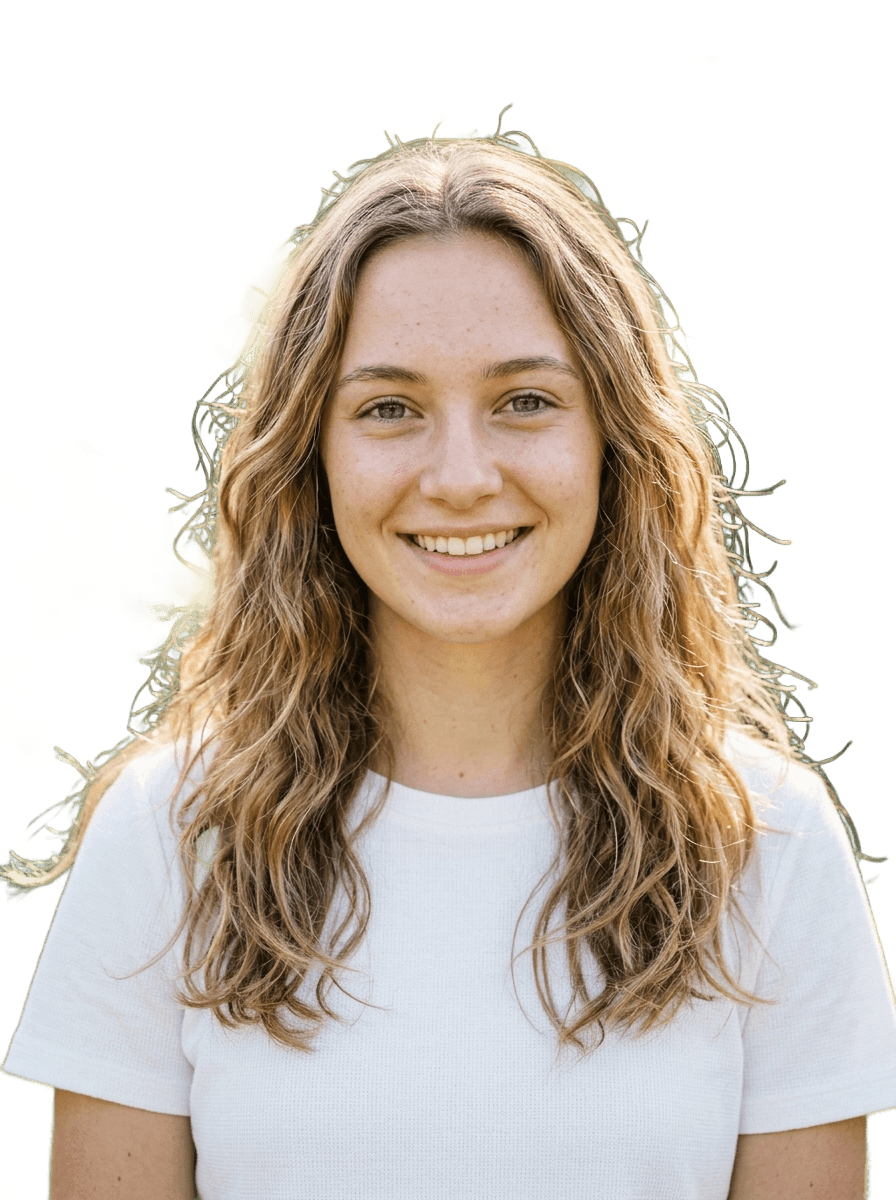
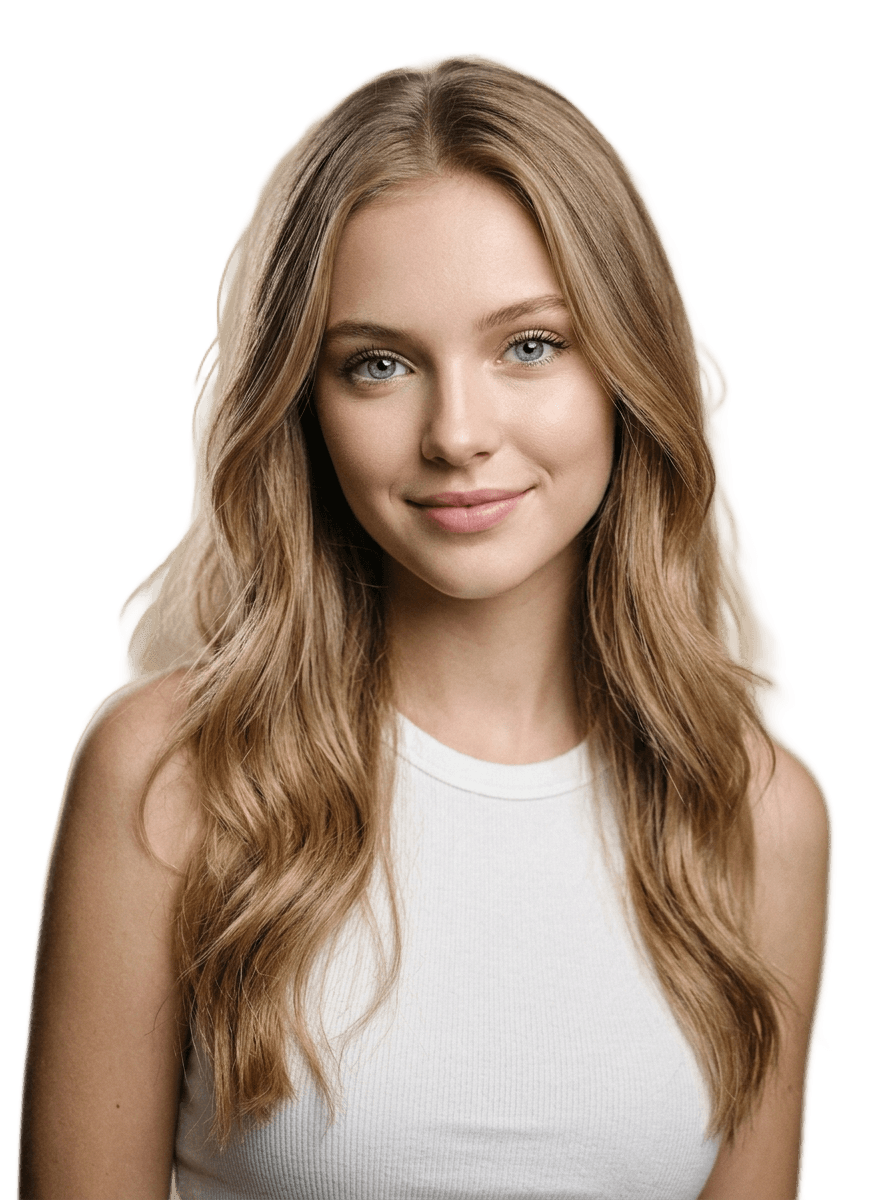
feat(portraits): replace portrait with high-fashion beauty model and eliminate green edge fringe

diff --git a/src/components/sections/HeroSection.tsx b/src/components/sections/HeroSection.tsx
@@ -12,11 +12,11 @@ const HERO_DEMOS = [
   {
     id: "woman",
     name: "Portraits",
-    subtitle: "18yo Natural Sunlight Portrait",
+    subtitle: "High-Fashion Beauty & Hair",
     url: "/samples/sample-woman.jpg",
     cutoutUrl: "/samples/sample-woman-cutout.png",
     icon: Smile,
-    desc: "Flawless portrait matting preserving fine flyaway hair strands, natural skin texture, and soft daylight.",
+    desc: "Flawless portrait matting preserving individual silky hair strands and shoulder contours with zero color fringe.",
   },
   {
     id: "car",
